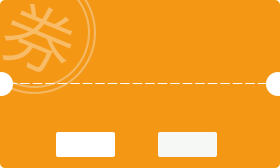
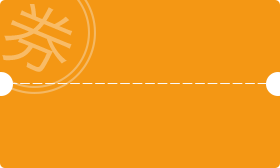
coupon img

Changed region(s): [[0.5429, 0.7738, 0.8, 0.9524], [0.2, 0.7738, 0.4286, 0.9524]]

diff --git a/static/css/User.css b/static/css/User.css
@@ -294,14 +294,16 @@ input[type="text"] {padding-left: 10px !important;padding-right: 10px !important
 .Swi-Bot>.on { display:block;}
 .Swi-info { float:left; width:100%; height:355px;}
 .Swi-info ul { float:left; width:100%; height:auto; border-bottom:1px solid #ebebeb;}
-.Swi-info li {box-sizing: border-box; width:280px; height:168px; float:left; background:url(../images/coupon-bg-jiaxi.png) center center/100% auto no-repeat; text-align:center; padding:10px; margin-top:20px; margin-left:10px;}
+.Swi-info li {box-sizing: border-box; width:280px; height:168px; float:left; background:url(../images/coupon-bg-xianjin.png) center center/100% auto no-repeat; text-align:center; padding:10px; margin-top:20px; margin-left:10px;}
+.Swi-info li.jiaxi {background-image: url(../images/coupon-bg-jiaxi.png);}
+.Swi-info li.shiyong {background-image: url(../images/coupon-bg-shiyong.png);}
 .Swi-info li strong { font-size:28px; color:#fff; line-height:36px;}
 .Swi-info li strong font { font-weight:400;}
 .Swi-info li span { font-size:14px; color:#fff; line-height:30px;}
-.Swi-info li p { font-size:12px; color:#fff; line-height:25px; display:block; width:100%; text-align:left;}
-.Swi-info li .coupon-use-intro { line-height: 50px; overflow: hidden; }
-.Swi-info li .coupon-use-intro2 { line-height: 25px; overflow: hidden; white-space: nowrap; text-overflow: ellipsis;}
-.Swi-info li a { font-size:12px; color:#008fd7; height:26px; line-height:26px; text-align:center; width:60px; display:inline-block; background:#fff; margin:4px 20px;}
+.Swi-info li p { font-size:12px; color:#fff; line-height:25px; display:block; width:100%;}
+.Swi-info li .coupon-use-intro { height: 50px; overflow: hidden; text-align: left; cursor: pointer;}
+.Swi-info li .coupon-use-intro2 { height: 25px; overflow: hidden; text-align: left; white-space: nowrap; text-overflow: ellipsis; cursor: pointer;}
+.Swi-info li a { font-size:12px; color:#008fd7; height:26px; line-height:26px; text-align:center; width:60px; display:inline-block; background:#fff; margin:8px 20px 0; border-radius: 4px;}
 /*.bul { background:#008fd7 !important;}*/
 .Bot-info { border:1px solid #eee; background:#fff; width:100%; height:421px; float:left; margin-top:20px;position: relative;}
 .Bot-info h2 {    font-size: 18px; color: #f08519;  line-height: 44px; text-indent: 12px;  border-bottom: 1px solid #ebebeb;  float: left; width: 100%;  text-align: left;   font-weight: bold;}

diff --git a/account/templates/account/account_coupon.html b/account/templates/account/account_coupon.html
@@ -67,6 +67,11 @@ $(function(){
 			if (index==2){
 				data = data2
 			}
+      if (index==1){
+        $(".Swi-Top li").addClass('jiaxi').removeClass('shiyong');
+      } else if (index==2) {
+        $(".Swi-Top li").addClass('shiyong').removeClass('jiaxi');
+      }
 			$("#page").empty();
 			$("#pagedata1").ajaxPage({
 			    url:url+index,
